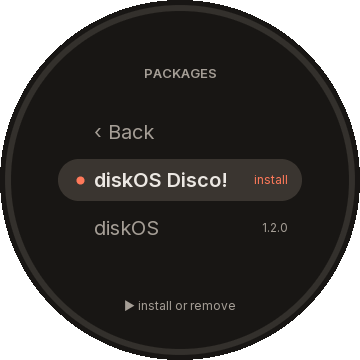
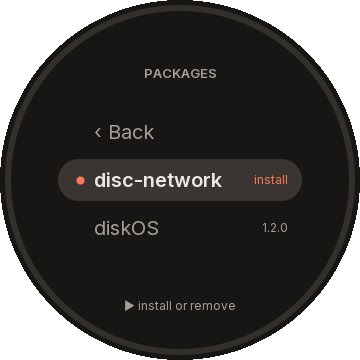
Show a package a user can get waiting in the menu's Packages screen
The README's picture showed diskOS Disco! waiting on the card, which no user can get yet (owner,
2026-10-11: no placeholders). It now shows a newer disc-network waiting, as install.py
--packages leaves it.

Claude-Session: https://claude.ai/code/session_01Uk4XSRM8nsUCMZsZm2gSii

Changed region(s): [[0.3361, 0.4583, 0.6417, 0.5194]]

diff --git a/scripts/menu_screens.py b/scripts/menu_screens.py
@@ -100,8 +100,10 @@ def main():
                            dict(role='service', name='disc-health', title='disc-health', version='2.57.7', removing=False),
                            dict(role='service', name='disc-network', title='disc-network', version='2.57.7', removing=False)],
                  staged=[])
-    waiting = dict(offer, staged=[dict(folder='ui/diskos-disco', role='ui', name='diskos-disco', title='diskOS Disco!',
-                                       version='0.3.0', refused=None)])
+    # A newer disc-network waiting on the card, as install.py --packages leaves it (no placeholder of a package a user
+    # cannot get: owner, 2026-10-11).
+    waiting = dict(offer, staged=[dict(folder='service/disc-network', role='service', name='disc-network', title='disc-network',
+                                       version='2.57.8', refused=None)])
     scene('waiting', args.output, installed, offer=waiting, wait=1.0, countdown=5000)
     scene('services', args.output, installed, offer=offer, keys=(VOLUME_DOWN, VOLUME_DOWN, PLAY, VOLUME_DOWN))
     scene('packages', args.output, installed, offer=waiting, keys=(VOLUME_DOWN, VOLUME_DOWN, PLAY, VOLUME_DOWN))

diff --git a/README.md b/README.md
@@ -16,7 +16,7 @@ writes the player's system memory over USB; read [the risk](docs/install.md#the-
 <p align="center">
   <img src="docs/assets/menu/choose.png" width="240" alt="The boot menu on the player's round screen: Start with FiiO 2.57 or diskOS 1.2.0, starting in 4 seconds">
   &nbsp;&nbsp;
-  <img src="docs/assets/menu/packages.png" width="240" alt="The boot menu's Packages screen: diskOS Disco! waiting on the card to install, diskOS installed">
+  <img src="docs/assets/menu/packages.png" width="240" alt="The boot menu's Packages screen: a newer disc-network waiting on the card to install, diskOS and the services installed">
 </p>
 
 _The boot menu, drawn by its own code: choosing the interface at power-on,
